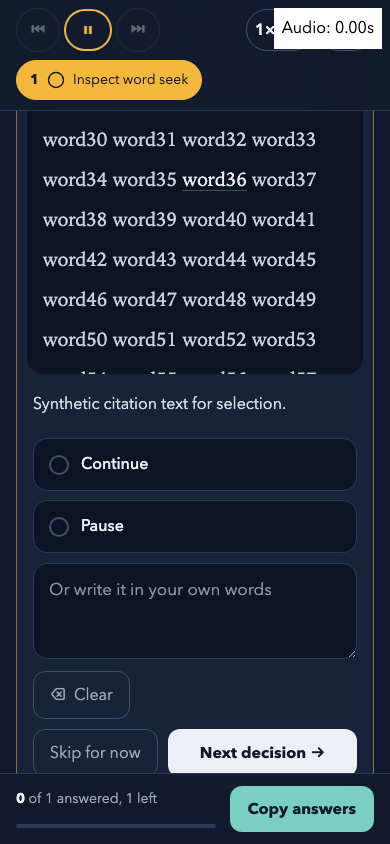
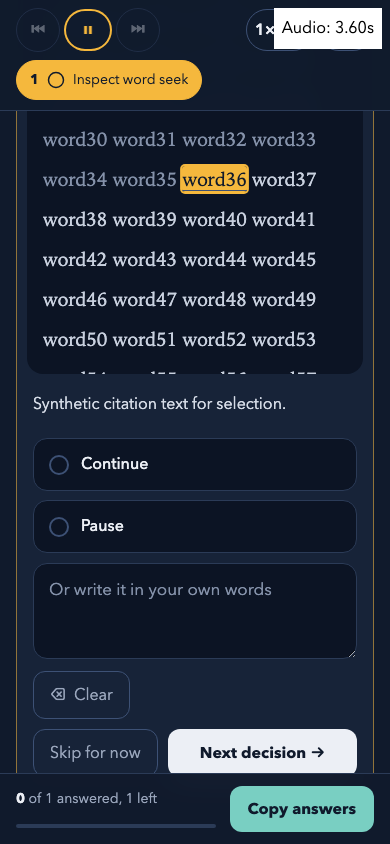
test(audio-dashboard): capture settled seek and keyboard proof
Wait for native readout and word highlight before capture, keep GIF captions above the image, exercise Tab entry under the controller, and make proof output opt-in. Regenerate and inspect all proof artifacts after Claude r1.

Changed region(s): [[0.1231, 0.154, 0.8, 0.2464], [0.8615, 0.0, 0.9231, 0.0616]]

diff --git a/skills/golem-powers/audio-dashboard/evals/ad2-visual-proof.py b/skills/golem-powers/audio-dashboard/evals/ad2-visual-proof.py
@@ -2,7 +2,7 @@
 Run the eval with AD2_OUTPUT=docs.local/ad2/{red,green} before invoking this script.
 """
 from pathlib import Path
-from PIL import Image, ImageChops, ImageDraw
+from PIL import Image, ImageChops, ImageDraw, ImageFont
 
 source = Path('docs.local/ad2')
 out = Path('skills/golem-powers/audio-dashboard/evals/fixtures/visual-proof/ad2')
@@ -17,13 +17,14 @@ for width in (1280, 390):
 
 def frame(phase, name, label):
     im = Image.open(source / phase / f'390-{name}.png').convert('RGB')
-    ImageDraw.Draw(im).rectangle((0, 0, 390, 26), fill='white')
-    ImageDraw.Draw(im).text((6, 7), label, fill='black')
-    return im.quantize(colors=96)
+    canvas = Image.new('RGB', (im.width, im.height + 52), 'white')
+    canvas.paste(im, (0, 52))
+    ImageDraw.Draw(canvas).text((8, 8), label, fill='black', font=ImageFont.load_default(size=16))
+    return canvas.quantize(colors=96)
 
-click = [frame(phase, name, label) for phase, label in [('red', 'BEFORE: focus scroll interrupts word seek'), ('green', 'AFTER: pointer stays on word and seeks')] for name in ('before-click', 'down', 'after-click')]
+click = [frame(phase, name, label) for phase, label in [('red', 'BEFORE: focus scroll interrupts seek'), ('green', 'AFTER: stable pointer, seek lands')] for name in ('before-click', 'down', 'after-click')]
 click[0].save(out / 'word-click.gif', save_all=True, append_images=click[1:], duration=900, loop=0, optimize=True)
-keys = [frame('green', name, label) for name, label in [('keyboard-start', 'AFTER: transcript keyboard focus'), ('keyboard', 'End: last word visible above dock')]]
+keys = [frame('green', name, label) for name, label in [('keyboard-start', 'AFTER: Tab, then ArrowRight'), ('keyboard', 'End: last word visible above dock')]]
 keys[0].save(out / 'keyboard.gif', save_all=True, append_images=keys[1:], duration=1200, loop=0, optimize=True)
 for file in out.iterdir():
     assert file.stat().st_size < 400_000, file

diff --git a/skills/golem-powers/audio-dashboard/evals/fixtures/visual-proof/ad2/README.md b/skills/golem-powers/audio-dashboard/evals/fixtures/visual-proof/ad2/README.md
@@ -1,41 +1,60 @@
 # AD2 word seek proof
 
-Status: implementation proof; full audio eval suite remains RED on existing failures.
+Status: regenerated after Claude r1. Production fix unchanged and approved by r1;
+lead verification of these regenerated artifacts is pending.
 
-Base: 218a5a50111819cf8efd146890e0ed0b5341d372. The before captures use
-that handler; the after captures add only the transcript focus exclusion.
+Base handler: 218a5a50111819cf8efd146890e0ed0b5341d372. Before captures use
+that handler; after captures add only the transcript focus exclusion.
 Both use the same generated synthetic transcript and seekable silent PCM audio.
 The fixture sets transcript line height to 40px to expose the focus jump reliably.
 The time readout is a test overlay showing the real audio element's currentTime.
 
-- `1280-red.png`, `390-red.png`: before, pointer click does not seek.
-- `1280-green.png`, `390-green.png`: after, seek lands at 9.00s / 3.60s.
-- `1280-pixel-diff.png`, `390-pixel-diff.png`: Pillow absolute RGB pixel differences.
-- `word-click.gif`: real Chromium captures before/down/up, before then after.
-- `keyboard.gif`: real Chromium captures of focus then End, after only; keyboard code unchanged.
+## Visually inspected artifacts
 
-GIFs are frame sequences at interaction boundaries, not continuous screen recordings.
-The eval verifies pointerdown/mouseup/click target identity, audio landing within
-0.1s, keyboard End word visibility clear of controller/dock, citation selection,
-note textarea focus and modal dismissal at both viewport widths.
+Each PNG and every decoded GIF frame was viewed after regeneration.
 
-Reproduce captures with `AD2_OUTPUT=docs.local/ad2/green bun test skills/golem-powers/audio-dashboard/evals/decision-flow-word-seek.test.mjs`.
+- `1280-red.png`: Audio: 0.00s, word74 hover underline after the focus jump; no target highlight.
+- `1280-green.png`: Audio: 9.00s, word90 highlighted amber.
+- `390-red.png`: Audio: 0.00s, word36 visible lower in the shifted transcript, without an amber highlight.
+- `390-green.png`: Audio: 3.60s, word36 highlighted amber.
+- `1280-pixel-diff.png`: absolute RGB difference, including ghosted text at the two scroll positions and amber word90.
+- `390-pixel-diff.png`: absolute RGB difference, including ghosted text at the two scroll positions and amber word36.
+- `word-click.gif`: five decoded frames. BEFORE shows 0.00s and the transcript jump;
+  AFTER shows the stable transcript, then Audio: 3.60s with word36 highlighted amber.
+  Caption text sits in a separate 52px band above the unmodified capture; the full readout is visible.
+- `keyboard.gif`: two decoded frames. Tab then ArrowRight shows the amber paragraph focus ring
+  and glass outline on word37, with word36 still amber from the seek. End moves the glass outline
+  to word239, visible inside the teleprompter and above the dock. Both frames show Audio: 3.60s.
+
+GIFs are frame sequences at interaction boundaries, not continuous recordings.
+The eval waits for both the readout (within 0.1s) and target highlight before pausing
+and capturing a successful click. RED captures precede the failing target assertion.
+Identical consecutive GIF frames may be merged by Pillow. All artifacts are below 160KB.
+
+## Reproduction and scope
+
+Run `env -u GOLEMS_EXPERT_VOICE AD2_OUTPUT=docs.local/ad2/green bun test skills/golem-powers/audio-dashboard/evals/decision-flow-word-seek.test.mjs`.
 Capture the unchanged handler to `docs.local/ad2/red`, then run
 `python3 skills/golem-powers/audio-dashboard/evals/ad2-visual-proof.py`.
+Without AD2_OUTPUT, this eval uses an in-memory routed page and writes no HTML or screenshots.
 
-Focused regression: RED exit 1 (both viewports), GREEN exit 0 (2 tests, 16 assertions).
-Baseline full evals: 256 pass, 2 skip, 11 fail (including the 2 new regression failures).
-Fixed full evals initially: 258 pass, 2 skip, 9 fail.
-Nine existing failures reproduce with the unchanged handler: eight voice/render
-gate failures and one drag-selection test whose word bounding box is null.
-No existing tests or gates were changed to suppress these failures.
+The regression checks the under-controller paragraph precondition, real pointer target
+identity and audio landing, real Tab entry with focus-visible under the controller,
+ArrowRight hit-testing against clipping/overlays, End visibility clear of controller/dock,
+citation selection, note textarea focus and modal dismissal at both widths.
+Playing-audio clicks, default motion and keyboard smooth scrolling remain follow-ups.
 
-Final validation:
+Focused regression: RED exit 1 (both viewports), GREEN exit 0 (2 tests, 22 assertions).
+The full audio eval run with GOLEMS_EXPERT_VOICE unset reports 266 pass, 2 skip,
+1 fail: the previously reproduced drag-selection test has a null word bounding box.
+The earlier run with the ambient voice override also had eight voice/render gate failures;
+unsetting that override resolves those eight without changing their tests or gates.
 
-- Full audio eval command: exit 1; 258 passed, 2 skipped, 9 baseline failures.
-- Full `python3 -m pytest scripts/tests -q`: exit 0; 784 passed, 1 skipped, 1078 subtests passed.
+## Validation after r1
+
+- `env -u GOLEMS_EXPERT_VOICE bun test skills/golem-powers/audio-dashboard/evals`: exit 1; 266 passed, 2 skipped, 1 baseline failure.
+- `python3 -m pytest scripts/tests -q`: exit 0; 784 passed, 1 skipped, 1078 subtests passed (403.01s).
 - `node scripts/ci/canon-drift-lint.mjs --check`: exit 0.
-- `bash scripts/check-publish-boundary.sh`: exit 0; no new violations.
-- `git diff --cached --check`: exit 0.
-- Staged-added-line private-path scan: no matches (rg exit 1).
-- CodeRabbit bounded local light review: exit 0, zero findings.
+- `bash scripts/check-publish-boundary.sh`: exit 0; 2339 paths scanned, no new violations.
+- Focused default-mode eval: exit 0; existing HTML/PNG/GIF files unchanged by the run.
+- Staged diff whitespace check: exit 0. Added-line private-path grep: exit 1 (no matches).
